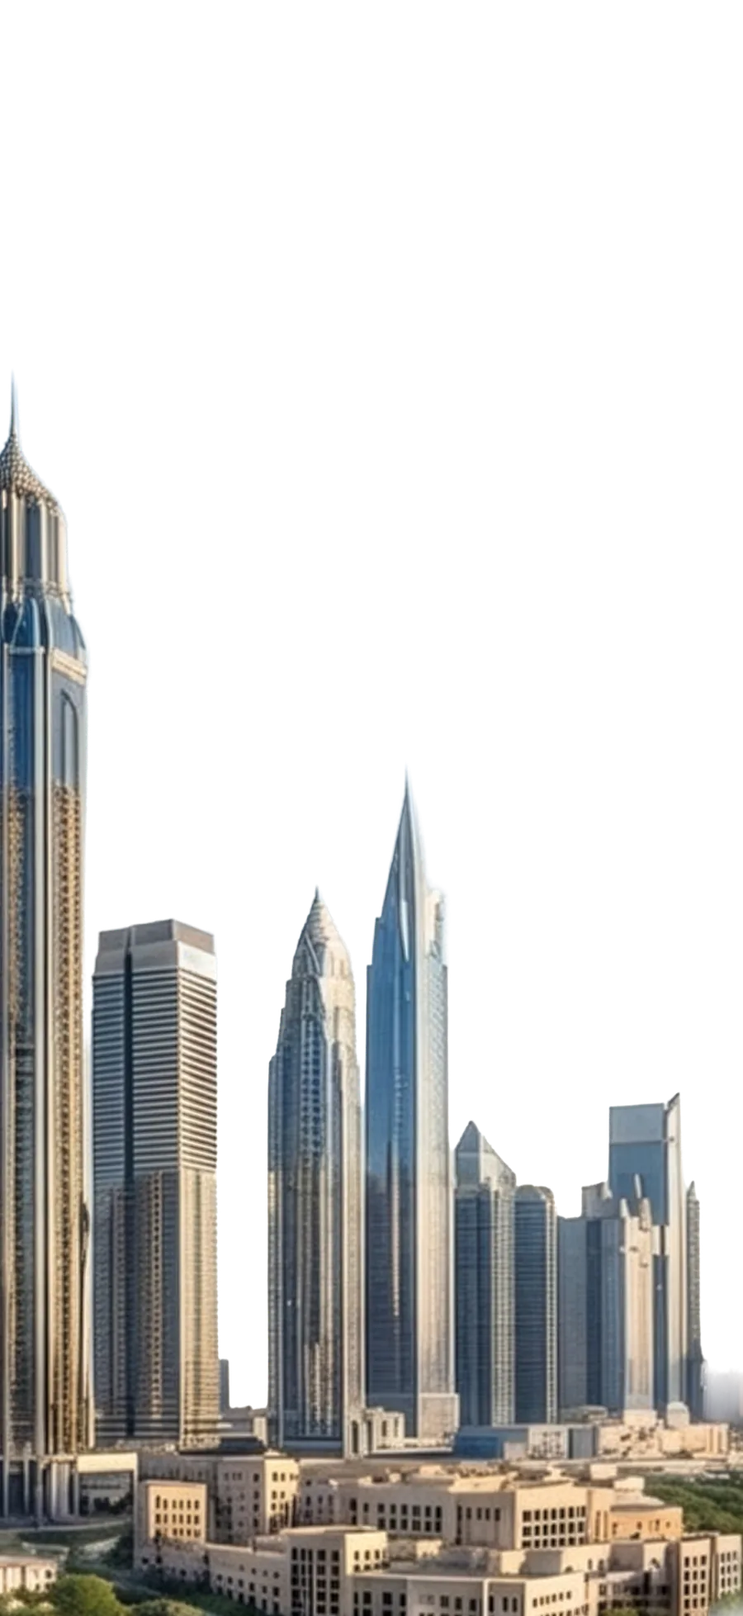
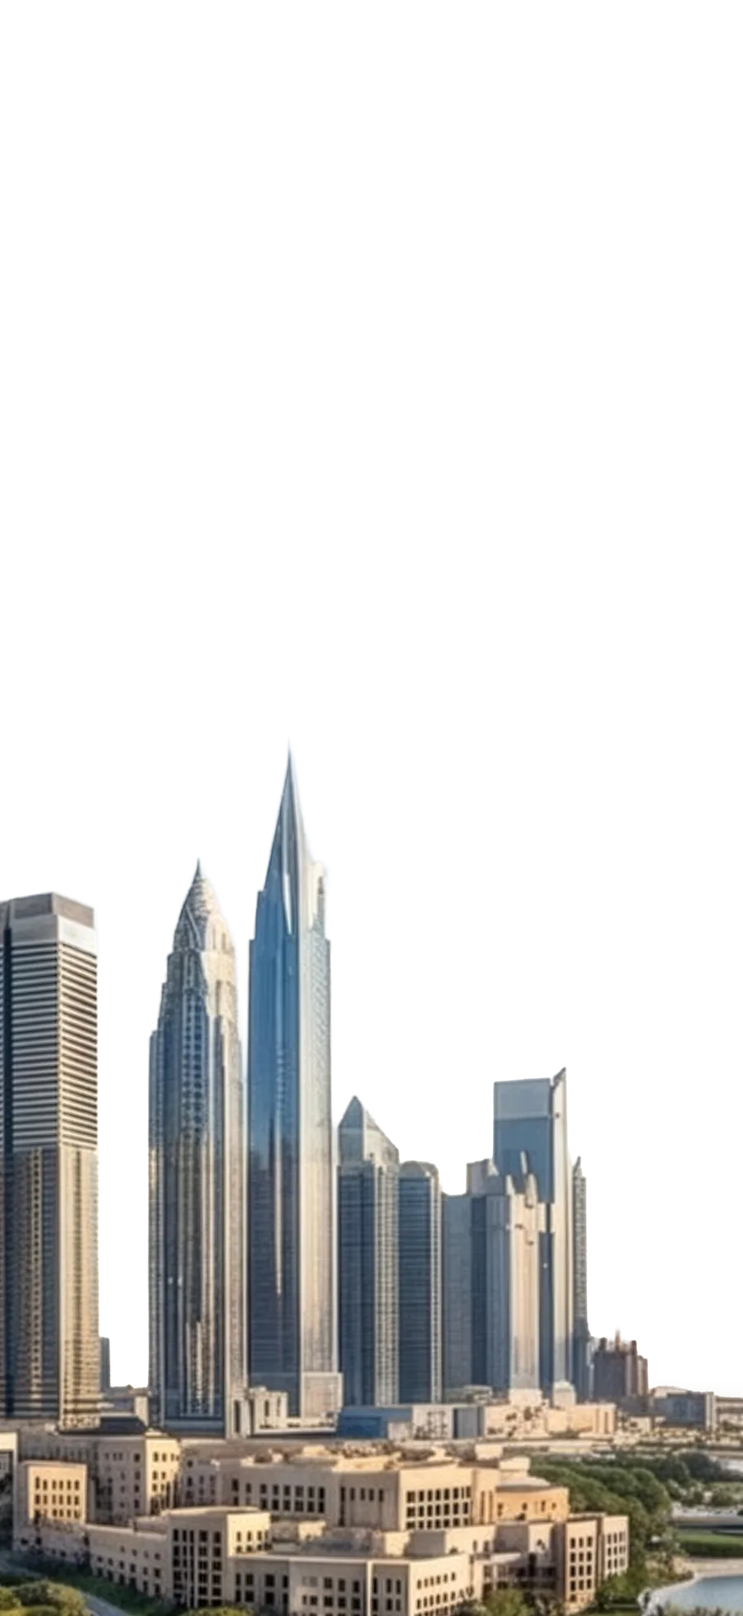
שכבת בניינים מעודכנת, מסלול הירו ארוך, כותרות 25 ותיקוני ריווח

diff --git a/index.html b/index.html
@@ -5,8 +5,9 @@
 <meta name="viewport" content="width=device-width, initial-scale=1">
 <title>NDN | השקעות נדל״ן בדובאי</title>
 <meta name="description" content="הון עצמי של 200–300 אלף ש״ח? הגיע הזמן שהכסף שלך יעבוד בשבילך בדובאי. ליווי מקצה לקצה, חיבור ישיר ליזמים המובילים, פתיחת חשבון בנק וחברה בדובאי בחינם.">
-<link rel="icon" href="favicon.svg?v=130" type="image/svg+xml">
-<link rel="stylesheet" href="styles.css?v=130">
+<meta name="theme-color" content="#8EB9E3">
+<link rel="icon" href="favicon.svg?v=131" type="image/svg+xml">
+<link rel="stylesheet" href="styles.css?v=131">
 </head>
 <body>
 
@@ -21,12 +22,12 @@
   <div class="loader-mark">
     <div class="loader-dim">
       <svg viewBox="0 0 304 202.667" preserveAspectRatio="xMidYMid meet"><path d="M152 3C192.818 3 230.103 27.6882 257.448 52.873C271.067 65.4161 282.098 77.9688 289.724 87.3877C293.535 92.0947 296.49 96.0134 298.489 98.749C299.249 99.7881 299.869 100.657 300.346 101.333C299.868 102.009 299.249 102.879 298.489 103.918C296.49 106.654 293.535 110.572 289.724 115.279C282.098 124.698 271.067 137.25 257.448 149.793C230.103 174.978 192.818 199.667 152 199.667C111.194 199.667 74.5247 174.991 47.4824 149.805C34.0134 137.26 23.0523 124.702 15.2949 115.262C11.4145 110.539 8.34666 106.611 6.14355 103.826C5.3548 102.829 4.66132 101.96 4.08105 101.255C4.61551 100.58 5.25599 99.7582 5.98535 98.8184C8.13573 96.0474 11.1797 92.1168 15.041 87.4004C22.7655 77.9654 33.7436 65.4091 47.25 52.8652C74.3681 27.6796 111.191 3 152 3Z"/></svg>
-      <img class="loader-palm" src="assets/icons/palm.svg?v=130" alt="">
+      <img class="loader-palm" src="assets/icons/palm.svg?v=131" alt="">
     </div>
     <div class="loader-fill-clip">
       <div class="loader-bright">
         <svg viewBox="0 0 304 202.667" preserveAspectRatio="xMidYMid meet"><path d="M152 3C192.818 3 230.103 27.6882 257.448 52.873C271.067 65.4161 282.098 77.9688 289.724 87.3877C293.535 92.0947 296.49 96.0134 298.489 98.749C299.249 99.7881 299.869 100.657 300.346 101.333C299.868 102.009 299.249 102.879 298.489 103.918C296.49 106.654 293.535 110.572 289.724 115.279C282.098 124.698 271.067 137.25 257.448 149.793C230.103 174.978 192.818 199.667 152 199.667C111.194 199.667 74.5247 174.991 47.4824 149.805C34.0134 137.26 23.0523 124.702 15.2949 115.262C11.4145 110.539 8.34666 106.611 6.14355 103.826C5.3548 102.829 4.66132 101.96 4.08105 101.255C4.61551 100.58 5.25599 99.7582 5.98535 98.8184C8.13573 96.0474 11.1797 92.1168 15.041 87.4004C22.7655 77.9654 33.7436 65.4091 47.25 52.8652C74.3681 27.6796 111.191 3 152 3Z"/></svg>
-        <img class="loader-palm" src="assets/icons/palm.svg?v=130" alt="">
+        <img class="loader-palm" src="assets/icons/palm.svg?v=131" alt="">
       </div>
     </div>
   </div>
@@ -37,8 +38,8 @@
   <div class="nav-inner">
     <a class="nav-call" href="tel:0505304085"><span class="nav-call-icon" aria-hidden="true"></span>חייגו עכשיו</a>
     <a class="nav-logo" href="#hero">
-      <img class="logo-dark" src="assets/icons/logo-header.png?v=130" alt="NDN">
-      <img class="logo-light" src="assets/icons/logo-footer.png?v=130" alt="" aria-hidden="true">
+      <img class="logo-dark" src="assets/icons/logo-header.png?v=131" alt="NDN">
+      <img class="logo-light" src="assets/icons/logo-footer.png?v=131" alt="" aria-hidden="true">
     </a>
         <button class="nav-burger" type="button" aria-label="תפריט" aria-expanded="false">
       <span></span><span></span><span></span>
@@ -53,7 +54,7 @@
 <div class="nav-sheet" aria-hidden="true">
   <button class="nav-sheet-close" type="button" aria-label="סגירת התפריט"><span></span><span></span></button>
   <div class="nav-sheet-card">
-    <img class="nav-sheet-mark" src="assets/icons/menu-mark.svg?v=130" alt="">
+    <img class="nav-sheet-mark" src="assets/icons/menu-mark.svg?v=131" alt="">
     <nav class="nav-sheet-links">
       <a href="index.html">בית</a>
       <a href="about.html">עלינו</a>
@@ -68,8 +69,8 @@
   <div class="hero-stage">
     <div class="hero-layer hero-sky">
       <picture>
-        <source media="(max-width:900px)" srcset="assets/img/hero-sky-m.webp?v=130">
-        <img src="assets/img/hero-sky.webp?v=130" alt="">
+        <source media="(max-width:900px)" srcset="assets/img/hero-sky-m.webp?v=131">
+        <img src="assets/img/hero-sky.webp?v=131" alt="">
       </picture>
     </div>
     <div class="hero-copy">
@@ -86,8 +87,8 @@
     </div>
     <div class="hero-layer hero-buildings">
       <picture>
-        <source media="(max-width:900px)" srcset="assets/img/hero-buildings-m.webp?v=130">
-        <img src="assets/img/hero-buildings.webp?v=130" alt="קו הרקיע של דובאי">
+        <source media="(max-width:900px)" srcset="assets/img/hero-buildings-m.webp?v=131">
+        <img src="assets/img/hero-buildings.webp?v=131" alt="קו הרקיע של דובאי">
       </picture>
       <div class="hero-fade"></div>
     </div>
@@ -98,7 +99,7 @@
 <section class="sec sec-intro">
   <div class="wrap intro">
     <span class="intro-badge">
-      <img class="intro-badge-bg" src="assets/icons/intro-badge.svg?v=130" alt="">
+      <img class="intro-badge-bg" src="assets/icons/intro-badge.svg?v=131" alt="">
       <span class="intro-badge-icon" aria-hidden="true"></span>
     </span>
     <h2 class="intro-head">
@@ -133,15 +134,15 @@
       </article>
     </div>
   </div>
-  <img class="problem-arc" src="assets/img/opp-divider.svg?v=130" alt="">
+  <img class="problem-arc" src="assets/img/opp-divider.svg?v=131" alt="">
 </section>
 
 <!-- ============ 4. OPPORTUNITY ============ -->
 <section class="sec sec-opp">
   <div class="opp-eye">
-    <img class="opp-ring" src="assets/img/opp-ring-a.svg?v=130" alt="">
-    <img class="opp-ring" src="assets/img/opp-ring-b.svg?v=130" alt="">
-    <img class="opp-eye-photo" src="assets/img/opp-eye-cut.webp?v=130" alt="דובאי">
+    <img class="opp-ring" src="assets/img/opp-ring-a.svg?v=131" alt="">
+    <img class="opp-ring" src="assets/img/opp-ring-b.svg?v=131" alt="">
+    <img class="opp-eye-photo" src="assets/img/opp-eye-cut.webp?v=131" alt="דובאי">
   </div>
   <div class="wrap opp-inner">
     <h2 class="opp-head">למה <strong>דובאי?</strong></h2>
@@ -173,24 +174,24 @@
 <!-- ============ 5. ABOUT / TEAM ============ -->
 <section class="sec sec-about" id="about">
   <div class="wrap about-stage">
-    <img class="about-photo" src="assets/img/team.webp?v=130" alt="דור ישראל ונתנאל אהרון">
+    <img class="about-photo" src="assets/img/team.webp?v=131" alt="דור ישראל ונתנאל אהרון">
     <div class="about-name-wrap"><h2 class="about-name"><span class="rg">נעים מאוד,</span><br><span class="about-names">דור ישראל, ונתנאל אהרון</span></h2></div>
 
     <div class="about-grid">
       <div class="feat feat--r1">
-        <img class="feat-icon" src="assets/icons/palm.svg?v=130" alt="">
+        <img class="feat-icon" src="assets/icons/palm.svg?v=131" alt="">
         <p><strong>מעטפת ביורוקרטית בחינם: </strong>פתיחת חשבון בנק ופתיחת חברה בדובאי נעשות דרכנו וללא עלות נוספת מצדך.</p>
       </div>
       <div class="feat feat--l1">
-        <img class="feat-icon" src="assets/icons/palm.svg?v=130" alt="">
+        <img class="feat-icon" src="assets/icons/palm.svg?v=131" alt="">
         <p><strong>סינון קפדני: </strong>מציעים רק פרויקטים שעברו את הסינון הקפדני שלנו - יזמים יציבים בלבד, מיקומים בביקוש שיא ופוטנציאל תשואה מוכח.</p>
       </div>
       <div class="feat feat--r2">
-        <img class="feat-icon" src="assets/icons/palm.svg?v=130" alt="">
+        <img class="feat-icon" src="assets/icons/palm.svg?v=131" alt="">
         <p><strong>עבודה ישירה מול יזמי העל: </strong>קשרים ישירים עם היזמים הגדולים והבטוחים ביותר בדובאי, שמבטיחים מחירים בלעדיים וערבויות מלאות.</p>
       </div>
       <div class="feat feat--l2">
-        <img class="feat-icon" src="assets/icons/palm.svg?v=130" alt="">
+        <img class="feat-icon" src="assets/icons/palm.svg?v=131" alt="">
         <p><strong>ניהול נכס מלא: </strong>אתה לא צריך לטוס, לחפש שוכרים או להתעסק עם תקלות. אנחנו דואגים לניהול השוטף של הנכס מקצה לקצה.</p>
       </div>
     </div>
@@ -200,7 +201,7 @@
 <!-- ============ 6. PROCESS ============ -->
 <section class="sec sec-process">
   <div class="proc-stage">
-    <img class="proc-bg" src="assets/img/process-bg.jpg?v=130" alt="">
+    <img class="proc-bg" src="assets/img/process-bg.jpg?v=131" alt="">
     <div class="proc-shade"></div>
 
     <div class="proc-wrap">
@@ -246,9 +247,9 @@
 
 <!-- ============ 7. QUOTE ============ -->
 <section class="sec sec-quote">
-  <img class="quote-arc" src="assets/img/quote-arc.svg?v=130" alt="">
+  <img class="quote-arc" src="assets/img/quote-arc.svg?v=131" alt="">
   <div class="wrap quote">
-    <img class="quote-img" src="assets/img/dubai-round.webp?v=130" alt="דובאי בלילה">
+    <img class="quote-img" src="assets/img/dubai-round.webp?v=131" alt="דובאי בלילה">
     <div class="quote-body">
       <span class="quote-mark">"</span>
       <p>מי שמחכה שהזדמנויות יגיעו אליו – נשאר מאחור. <strong>מי שמעז </strong>לקחת את הצעד הראשון – הוא זה <strong>שמשיג שקט כלכלי.</strong></p>
@@ -277,8 +278,8 @@
         <div class="contact-aside">
           <h2 class="contact-head">לפעמים ההחלטה הכי טובה <strong>מתחילה בשיחה פשוטה.</strong></h2>
           <ul class="contact-lines">
-            <li><img src="assets/icons/phone-lg.svg?v=130" alt=""><a href="tel:0505304085">050-530-4085</a></li>
-            <li><img src="assets/icons/email-lg.svg?v=130" alt=""><a href="mailto:Info@NDN.com">Info@NDN.com</a></li>
+            <li><img src="assets/icons/phone-lg.svg?v=131" alt=""><a href="tel:0505304085">050-530-4085</a></li>
+            <li><img src="assets/icons/email-lg.svg?v=131" alt=""><a href="mailto:Info@NDN.com">Info@NDN.com</a></li>
           </ul>
         </div>
       </div>
@@ -287,7 +288,7 @@
     <div class="wrap footer-inner">
       <div class="footer-top">
         <div class="footer-brand">
-          <img class="footer-logo" src="assets/icons/logo-footer.png?v=130" alt="NDN">
+          <img class="footer-logo" src="assets/icons/logo-footer.png?v=131" alt="NDN">
           <p class="footer-copy">כל הזכויות שמורות לקבוצת NDN©</p>
         </div>
         <nav class="footer-nav">
@@ -296,14 +297,14 @@
           <a href="#contact">צרו קשר</a>
         </nav>
         <ul class="footer-contact">
-          <li><img src="assets/icons/phone.svg?v=130" alt=""><a href="tel:0505304085">050-530-4085</a></li>
-          <li><img src="assets/icons/email.svg?v=130" alt=""><a href="mailto:Info@NDN.com">Info@NDN.com</a></li>
-          <li><img src="assets/icons/pin.svg?v=130" alt="">הנביאים 4, פתח תקווה</li>
+          <li><img src="assets/icons/phone.svg?v=131" alt=""><a href="tel:0505304085">050-530-4085</a></li>
+          <li><img src="assets/icons/email.svg?v=131" alt=""><a href="mailto:Info@NDN.com">Info@NDN.com</a></li>
+          <li><img src="assets/icons/pin.svg?v=131" alt="">הנביאים 4, פתח תקווה</li>
         </ul>
       </div>
       <div class="footer-bottom">
         <span>עיצוב ופיתוח ע״י</span>
-        <img class="footer-credit" src="assets/icons/logo-designer.png?v=130" alt="">
+        <img class="footer-credit" src="assets/icons/logo-designer.png?v=131" alt="">
       </div>
     </div>
   </footer>
@@ -312,11 +313,11 @@
 
 
 
-<script src="smooth-scroll.js?v=130"></script>
-<script src="hero.js?v=130"></script>
-<script src="scroll-reveal.js?v=130"></script>
-<script src="process.js?v=130"></script>
-<script src="glow.js?v=130"></script>
-<script src="nav.js?v=130"></script>
+<script src="smooth-scroll.js?v=131"></script>
+<script src="hero.js?v=131"></script>
+<script src="scroll-reveal.js?v=131"></script>
+<script src="process.js?v=131"></script>
+<script src="glow.js?v=131"></script>
+<script src="nav.js?v=131"></script>
 </body>
 </html>

diff --git a/about.html b/about.html
@@ -5,8 +5,9 @@
 <meta name="viewport" content="width=device-width, initial-scale=1">
 <title>NDN | עלינו</title>
 <meta name="description" content="הסיפור של NDN — מי אנחנו ולמה הקמנו את חברת השקעות הנדל״ן בדובאי.">
-<link rel="icon" href="favicon.svg?v=130" type="image/svg+xml">
-<link rel="stylesheet" href="styles.css?v=130">
+<meta name="theme-color" content="#001409">
+<link rel="icon" href="favicon.svg?v=131" type="image/svg+xml">
+<link rel="stylesheet" href="styles.css?v=131">
 </head>
 <body class="about-page">
 
@@ -15,8 +16,8 @@
   <div class="nav-inner">
     <a class="nav-call" href="tel:0505304085"><span class="nav-call-icon" aria-hidden="true"></span>חייגו עכשיו</a>
     <a class="nav-logo" href="index.html">
-      <img class="logo-dark" src="assets/icons/logo-header.png?v=130" alt="NDN">
-      <img class="logo-light" src="assets/icons/logo-footer.png?v=130" alt="" aria-hidden="true">
+      <img class="logo-dark" src="assets/icons/logo-header.png?v=131" alt="NDN">
+      <img class="logo-light" src="assets/icons/logo-footer.png?v=131" alt="" aria-hidden="true">
     </a>
         <button class="nav-burger" type="button" aria-label="תפריט" aria-expanded="false">
       <span></span><span></span><span></span>
@@ -31,7 +32,7 @@
 <div class="nav-sheet" aria-hidden="true">
   <button class="nav-sheet-close" type="button" aria-label="סגירת התפריט"><span></span><span></span></button>
   <div class="nav-sheet-card">
-    <img class="nav-sheet-mark" src="assets/icons/menu-mark.svg?v=130" alt="">
+    <img class="nav-sheet-mark" src="assets/icons/menu-mark.svg?v=131" alt="">
     <nav class="nav-sheet-links">
       <a href="index.html">בית</a>
       <a href="about.html">עלינו</a>
@@ -44,26 +45,26 @@
 <!-- ============ STORY ============ -->
 <main class="story">
   <div class="decay">
-    <img src="assets/img/about-step1.webp?v=130" alt="מייסדי NDN">
+    <img src="assets/img/about-step1.webp?v=131" alt="מייסדי NDN">
   </div>
 
-  <section class="story-slide is-active" data-img="assets/img/about-step1.webp?v=130" data-alt="מייסדי NDN">
+  <section class="story-slide is-active" data-img="assets/img/about-step1.webp?v=131" data-alt="מייסדי NDN">
     <h1 class="story-head">הקושי: להרגיש שרצים במקום</h1>
     <p class="story-text">כמו רוב הישראלים, עבדנו קשה, חסכנו שקל לשקל, אבל<strong> המציאות בארץ הכתה בנו. </strong><br>ראינו איך יוקר המחייה מזנק, מחירי הנדל"ן בורחים למעלה, וההון העצמי שצברנו בזיעה פשוט לא מספיק אפילו לדירה ישנה בפריפריה.</p>
   </section>
-  <section class="story-slide" data-img="assets/img/about-step2.webp?v=130" data-alt="פגישת ייעוץ">
+  <section class="story-slide" data-img="assets/img/about-step2.webp?v=131" data-alt="פגישת ייעוץ">
     <h1 class="story-head">הניצוץ: החיפוש אחר דרך אחרת</h1>
     <p class="story-text">סירבנו להשלים עם המחשבה שנעבוד כל החיים רק כדי לשלם משכנתא חונקת. הבנו שכדי להשיג תוצאה שונה, חייבים <strong>לחשוב מחוץ לקופסה.</strong><br>התחלנו לחקור שווקים בינלאומיים וחיפשנו מקום שבו הכסף הישראלי מקבל כבוד וערך אמיתי.</p>
   </section>
-  <section class="story-slide" data-img="assets/img/about-step3.webp?v=130" data-alt="הגילוי: פריצת הדרך בדובאי">
+  <section class="story-slide" data-img="assets/img/about-step3.webp?v=131" data-alt="הגילוי: פריצת הדרך בדובאי">
     <h1 class="story-head">הגילוי: פריצת הדרך בדובאי</h1>
     <p class="story-text">כשנחשפנו לראשונה לשוק הנדל"ן בדובאי, נדהמנו. גילינו מנוע צמיחה מטורף, תשואות גבוהות, 0% מס, והכי חשוב – רף כניסה נגיש שמאפשר גם להון עצמי צנוע לייצר <strong>נכס אמיתי, יציב ומניב.</strong></p>
   </section>
-  <section class="story-slide" data-img="assets/img/about-step4.webp?v=130" data-alt="המכשול: הפחד והביורוקרטיה בדרך">
+  <section class="story-slide" data-img="assets/img/about-step4.webp?v=131" data-alt="המכשול: הפחד והביורוקרטיה בדרך">
     <h1 class="story-head">המכשול: הפחד והביורוקרטיה בדרך</h1>
     <p class="story-text">התחלנו להשקיע בעצמנו, אבל הדרך לא הייתה קלה. חווינו את החששות ממרחק, את פערי השפה ואת הסירבול הביורוקרטי.<br>שם הבנו בדיוק מה חסר בשוק: <strong>גורם ישראלי אמין</strong> שילווה את המשקיע בגובה העיניים, בלי אותיות קטנות ובלי כאבי ראש.</p>
   </section>
-  <section class="story-slide" data-img="assets/img/about-step5.webp?v=130" data-alt="השליחות: להביא את הבשורה למשקיע הישראלי">
+  <section class="story-slide" data-img="assets/img/about-step5.webp?v=131" data-alt="השליחות: להביא את הבשורה למשקיע הישראלי">
     <h1 class="story-head">השליחות: להביא את הבשורה למשקיע הישראלי</h1>
     <p class="story-text">מתוך הניסיון והצלחות השטח שלנו, קמה NDN Marketing.<br>השליחות שלנו פשוטה: לפתוח לכל ישראלי את הדלת לעצמאות כלכלית, להפיג את הפחדים, ולתת לכם את אותה <strong>המעטפת</strong><b> הבטוחה והאישית </b>שהיינו רוצים לקבל כשאנחנו עשינו את הצעד הראשון.</p>
   </section>
@@ -87,8 +88,8 @@
       <div class="contact-aside">
         <h2 class="contact-head">לפעמים ההחלטה הכי טובה <strong>מתחילה בשיחה פשוטה.</strong></h2>
         <ul class="contact-lines">
-          <li><img src="assets/icons/phone-lg.svg?v=130" alt=""><a href="tel:0505304085">050-530-4085</a></li>
-          <li><img src="assets/icons/email-lg.svg?v=130" alt=""><a href="mailto:Info@NDN.com">Info@NDN.com</a></li>
+          <li><img src="assets/icons/phone-lg.svg?v=131" alt=""><a href="tel:0505304085">050-530-4085</a></li>
+          <li><img src="assets/icons/email-lg.svg?v=131" alt=""><a href="mailto:Info@NDN.com">Info@NDN.com</a></li>
         </ul>
       </div>
     </div>
@@ -104,8 +105,8 @@
   </nav>
 </main>
 
-<script src="about.js?v=130"></script>
-<script src="glow.js?v=130"></script>
-<script src="nav.js?v=130"></script>
+<script src="about.js?v=131"></script>
+<script src="glow.js?v=131"></script>
+<script src="nav.js?v=131"></script>
 </body>
 </html>

diff --git a/contact.html b/contact.html
@@ -5,8 +5,9 @@
 <meta name="viewport" content="width=device-width, initial-scale=1">
 <title>NDN | יצירת קשר</title>
 <meta name="description" content="בואו נדבר — השאירו פרטים לשיחת ייעוץ על השקעות נדל״ן בדובאי.">
-<link rel="icon" href="favicon.svg?v=130" type="image/svg+xml">
-<link rel="stylesheet" href="styles.css?v=130">
+<meta name="theme-color" content="#001409">
+<link rel="icon" href="favicon.svg?v=131" type="image/svg+xml">
+<link rel="stylesheet" href="styles.css?v=131">
 </head>
 <body class="contact-page">
 
@@ -14,8 +15,8 @@
   <div class="nav-inner">
     <a class="nav-call" href="tel:0505304085"><span class="nav-call-icon" aria-hidden="true"></span>חייגו עכשיו</a>
     <a class="nav-logo" href="index.html">
-      <img class="logo-dark" src="assets/icons/logo-header.png?v=130" alt="NDN">
-      <img class="logo-light" src="assets/icons/logo-footer.png?v=130" alt="" aria-hidden="true">
+      <img class="logo-dark" src="assets/icons/logo-header.png?v=131" alt="NDN">
+      <img class="logo-light" src="assets/icons/logo-footer.png?v=131" alt="" aria-hidden="true">
     </a>
         <button class="nav-burger" type="button" aria-label="תפריט" aria-expanded="false">
       <span></span><span></span><span></span>
@@ -30,7 +31,7 @@
 <div class="nav-sheet" aria-hidden="true">
   <button class="nav-sheet-close" type="button" aria-label="סגירת התפריט"><span></span><span></span></button>
   <div class="nav-sheet-card">
-    <img class="nav-sheet-mark" src="assets/icons/menu-mark.svg?v=130" alt="">
+    <img class="nav-sheet-mark" src="assets/icons/menu-mark.svg?v=131" alt="">
     <nav class="nav-sheet-links">
       <a href="index.html">בית</a>
       <a href="about.html">עלינו</a>
@@ -45,9 +46,9 @@
     <h1 class="reach-head">בואו נדבר.</h1>
     <p class="reach-sub">פורצים את תקרת הזכוכית הכלכלית ביחד.</p>
     <ul class="reach-lines">
-      <li><img src="assets/icons/phone.svg?v=130" alt=""><a href="tel:0505304085">050-530-4085</a></li>
-      <li><img src="assets/icons/email.svg?v=130" alt=""><a href="mailto:Info@NDN.com">Info@NDN.com</a></li>
-      <li><img src="assets/icons/pin.svg?v=130" alt="">הנביאים 4, פתח תקווה</li>
+      <li><img src="assets/icons/phone.svg?v=131" alt=""><a href="tel:0505304085">050-530-4085</a></li>
+      <li><img src="assets/icons/email.svg?v=131" alt=""><a href="mailto:Info@NDN.com">Info@NDN.com</a></li>
+      <li><img src="assets/icons/pin.svg?v=131" alt="">הנביאים 4, פתח תקווה</li>
     </ul>
   </div>
 
@@ -92,7 +93,7 @@
     </div>
   </footer>
 
-<script src="glow.js?v=130"></script>
-<script src="nav.js?v=130"></script>
+<script src="glow.js?v=131"></script>
+<script src="nav.js?v=131"></script>
 </body>
 </html>

diff --git a/styles.css b/styles.css
@@ -434,7 +434,7 @@ h1,h2,h3{margin:0;font-weight:400;}
   background:#AFDF8E;
   -webkit-mask:url("assets/icons/palm.svg") center/contain no-repeat;
   mask:url("assets/icons/palm.svg") center/contain no-repeat;
-  opacity:.55;
+  opacity:.3;
 }
 /* 60:88 — Bold 60 over Regular 45, centred, w:1021 */
 .intro-head{
@@ -991,7 +991,7 @@ h1,h2,h3{margin:0;font-weight:400;}
   min-height:23.1875rem;
   /* the SVG plate is itself white at 10% (palm at 5%) — no colour underneath,
      or the two would stack to ~19% */
-  background:url("assets/img/form-panel.svg") center/100% 100% no-repeat;
+  background:url("assets/img/form-panel.svg") center/cover no-repeat;
   border-radius:1.875rem;
   overflow:hidden;
   display:flex;justify-content:flex-end;align-items:center;
@@ -1722,4 +1722,23 @@ h1,h2,h3{margin:0;font-weight:400;}
   .nav-sheet-close span:nth-child(1){transform:translate(-50%,-50%) rotate(45deg);}
   .nav-sheet-close span:nth-child(2){transform:translate(-50%,-50%) rotate(-45deg);}
   .menu-open .nav-burger{display:none;}
+}
+
+/* ============ MOBILE ROUND 5 ============ */
+@media (max-width:900px){
+  /* a long runway so the skyline's climb plays out fully */
+  .sec-hero{height:200vh;}
+
+  /* section 3 reads across the tile like section 4 does */
+  .pcard{width:100%;padding:2.5rem 1.5rem 1.5rem;text-align:right;}
+
+  /* container titles */
+  .dcard h3,.step h3,.feat strong{font-size:25px;line-height:1.15;}
+
+  /* the steps: 60px of air on the stage, roomier cards */
+  .proc-stage{padding-block:60px;}
+  .step{padding:1.75rem 1.5rem;}
+
+  /* the close badge sits on the card's top edge */
+  .nav-sheet-close{top:-1.1rem;z-index:2;}
 }
